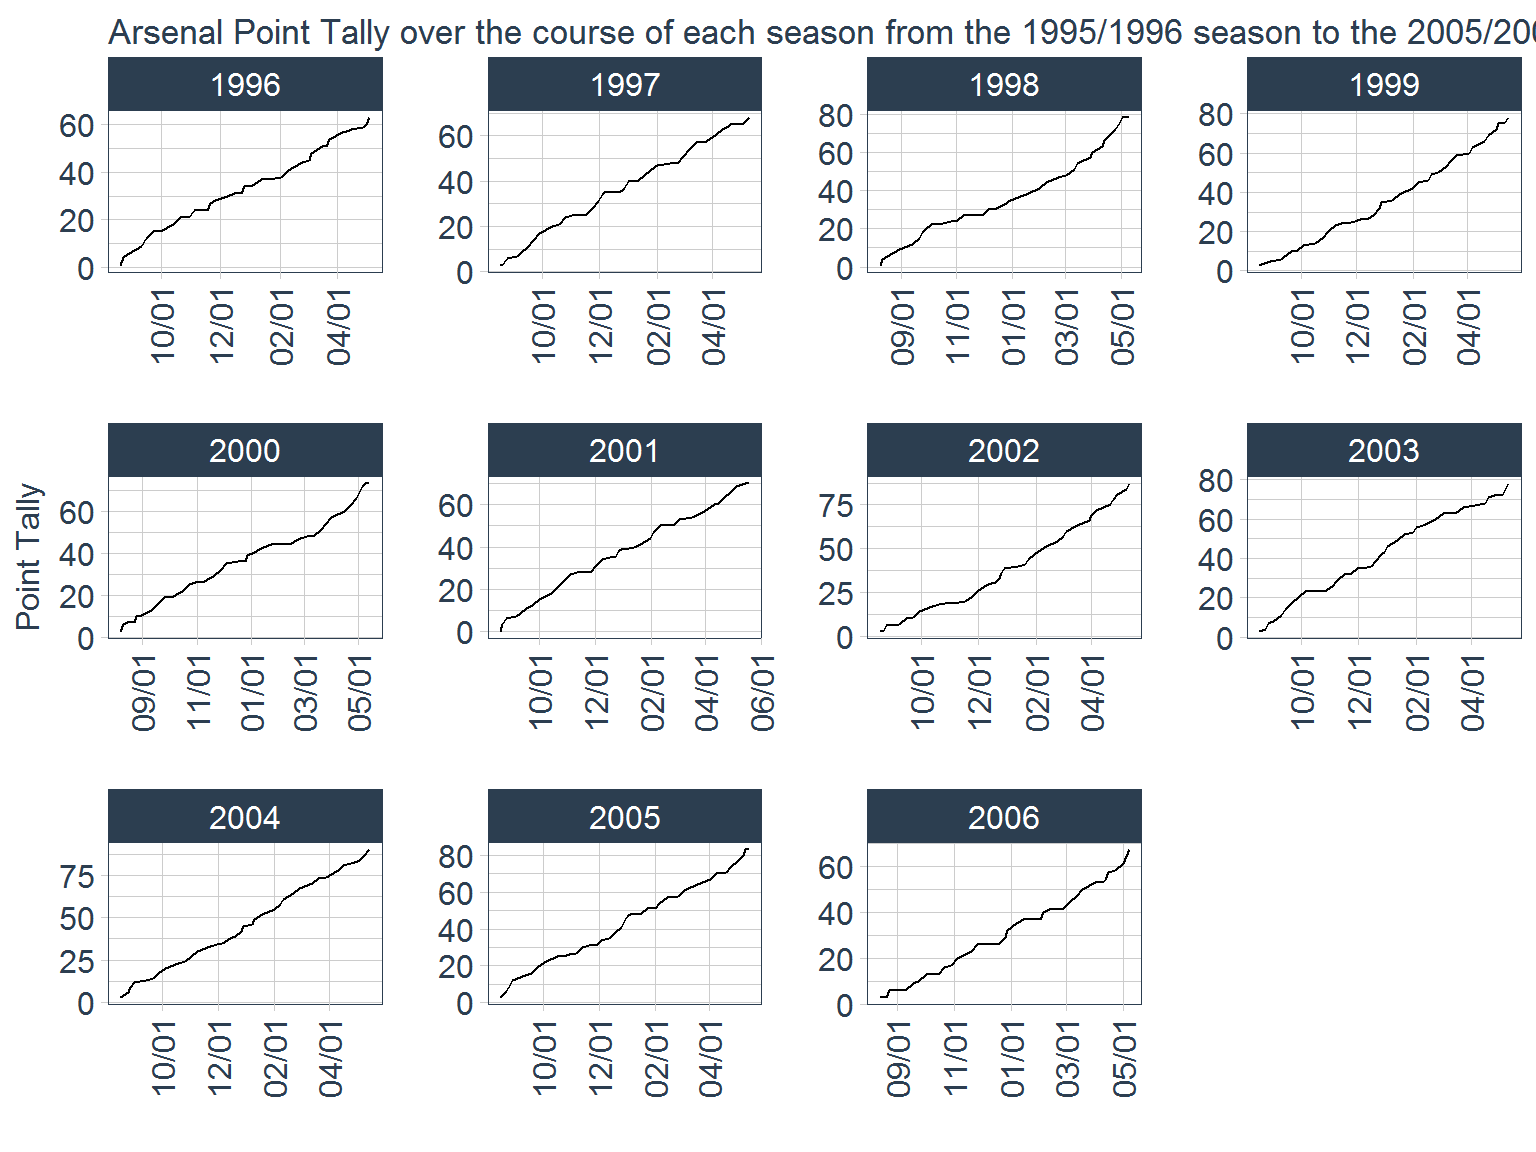
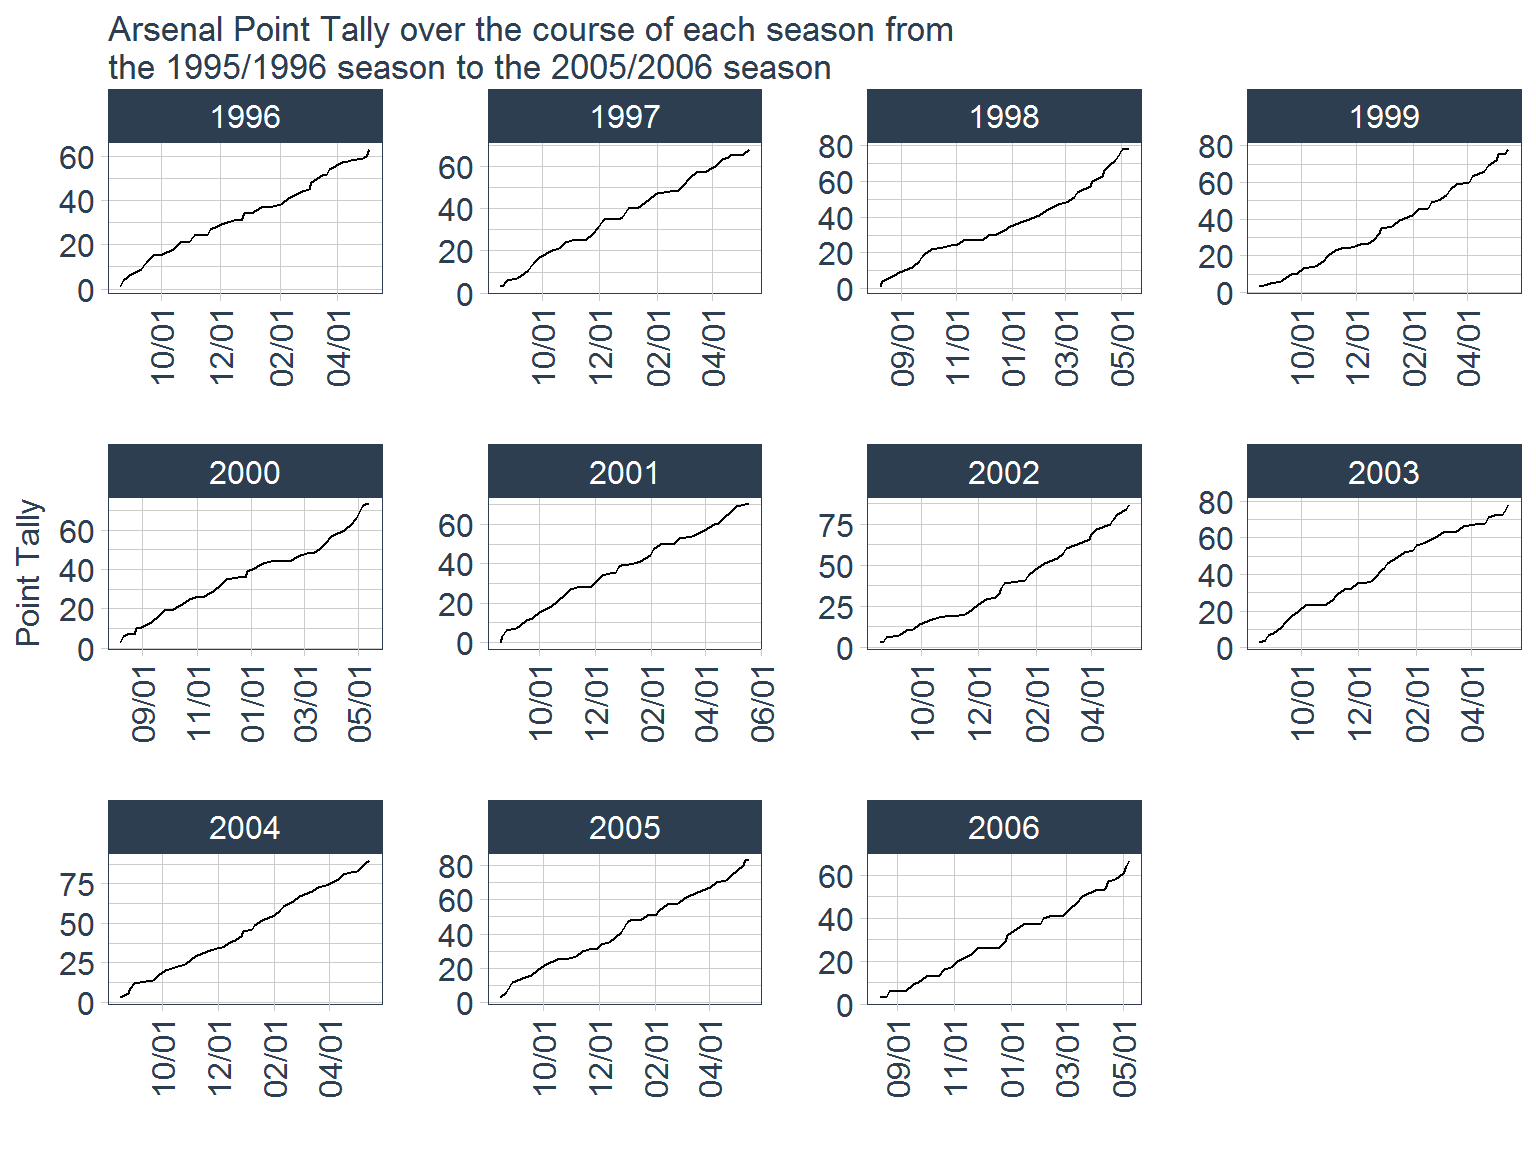
added comments section and put out.width and out.height arguments to epl blog post

diff --git a/2017/08/10/epl-opening-weekend/index.html b/2017/08/10/epl-opening-weekend/index.html
@@ -205,11 +205,12 @@ data_tidy</code></pre>
 <p>To ensure that our tidying did not create any missing values, we can use the <code>summarise_all()</code> function.</p>
 <pre class="r"><code>data_tidy %&gt;% 
   summarise_all(function(x) sum(is.na(x)))</code></pre>
-<pre><code>## # A tibble: 1 x 13
+<pre><code>## # A tibble: 1 x 15
 ##     Div season  Date  team venue   FTR  FTGF  FTGA   HTR  HTGF  HTGA
 ##   &lt;int&gt;  &lt;int&gt; &lt;int&gt; &lt;int&gt; &lt;int&gt; &lt;int&gt; &lt;int&gt; &lt;int&gt; &lt;int&gt; &lt;int&gt; &lt;int&gt;
 ## 1     0      0     0     0     0     0     0     0     0     0     0
-## # ... with 2 more variables: points_earned &lt;int&gt;, points &lt;int&gt;</code></pre>
+## # ... with 4 more variables: goal_diff &lt;int&gt;, points_earned &lt;int&gt;,
+## #   points &lt;int&gt;, goal_diff_tot &lt;int&gt;</code></pre>
 <p>Now that we know that the data is in a tidy format, we can begin exploring the data. As an Arsenal fan, I think we should start by looking at how Arsenal has done each year.</p>
 <pre class="r"><code>data_tidy %&gt;%
   filter(team == &quot;Arsenal&quot;,
@@ -226,8 +227,8 @@ data_tidy</code></pre>
         axis.title = element_text(size = 12)) +
   labs(x = &quot;&quot;, 
        y = &quot;Point Tally&quot;,
-       title = &quot;Arsenal Point Tally over the course of each season from the 1995/1996 season to the 2005/2006 season&quot;)</code></pre>
-<p><img src="/post/2017-08-09-exploring-english-premier-league-historical-match-results_files/figure-html/arsenal-points-graph-1-1.png" width="768" /></p>
+       title = &quot;Arsenal Point Tally over the course of each season from\nthe 1995/1996 season to the 2005/2006 season&quot;)</code></pre>
+<p><img src="/post/2017-08-09-exploring-english-premier-league-historical-match-results_files/figure-html/arsenal-points-graph-1-1.png" width="800px" height="600px" /></p>
 <pre class="r"><code>data_tidy %&gt;%
   filter(team == &quot;Arsenal&quot;,
          season &gt;= 2007) %&gt;%
@@ -244,8 +245,8 @@ data_tidy</code></pre>
         axis.title = element_text(size = 12))+
   labs(x = &quot;&quot;, 
        y = &quot;Point Tally&quot;,
-       title = &quot;Arsenal Point Tally over the course of each season from the 2006/2007 season to the 2016/2017 season&quot;)</code></pre>
-<p><img src="/post/2017-08-09-exploring-english-premier-league-historical-match-results_files/figure-html/arsenal-points-graph-2-1.png" width="768" /></p>
+       title = &quot;Arsenal Point Tally over the course of each season from\nthe 2006/2007 season to the 2016/2017 season&quot;)</code></pre>
+<p><img src="/post/2017-08-09-exploring-english-premier-league-historical-match-results_files/figure-html/arsenal-points-graph-2-1.png" width="800px" height="600px" /></p>
 <p>From these graphs, it looks like Arsenal follow a similar pattern every year, which is not surprising since the 2017 season was the first in Arsene Wenger’s tenure that they have not finished in the top 4. Looking at the plot for the 2017 season, it is clear that the period of the season that killed their chances of finishing in the top 4 was the stretch of games between February and March where their point increase flat lined. Let’s now take a look at team’s average finishing point total.</p>
 <pre class="r"><code>season_ending &lt;- data_tidy %&gt;%
   group_by(season, team) %&gt;%
@@ -324,7 +325,7 @@ season_ending_stats</code></pre>
        y = &quot;Final Points&quot;,
        title = &quot;Average Final Points from 1995/1996 season to 2016/2017 season&quot;,
        subtitle = &quot;Only teams with 10 or more seasons in the EPL were included&quot;)</code></pre>
-<p><img src="/post/2017-08-09-exploring-english-premier-league-historical-match-results_files/figure-html/bar-graph-season-stats-1.png" width="672" /></p>
+<p><img src="/post/2017-08-09-exploring-english-premier-league-historical-match-results_files/figure-html/bar-graph-season-stats-1.png" width="800px" height="600px" /></p>
 <p>It looks like Manchester United have the highest average final points per season. They are followed closely by Arsenal and Chelsea, who are then closely followed by Liverpool, Manchester City, and Tottenham. It is worth noting that Chelsea and Manchester City both have much higher error associated with their mean value, indicating they have much more fluctuation in the final point tallies. Another interesting take away from this figure is that the lowest average final point tally for teams that have been in the premier league for at least 10 of the previous 22 seasons is 39 points. 39 points typically guarantees a season that is safe from relegation. However, for the teams with the lower average finally point tally, such as Sunderland and West Brom, see the lower tails of their error bars treading dangerously close to relegation zone.</p>
 <p>Now, it will be interesting to see how these teams final point tallies will look on the new joyplots from the <code>ggjoy</code> package.</p>
 <pre class="r"><code>season_ending %&gt;%
@@ -344,7 +345,7 @@ season_ending_stats</code></pre>
   labs(x = &quot;Final Points&quot;,
        y = &quot;Team&quot;,
        title = &quot;Joyplot showing EPL teams&#39; individual season final point tally distribution&quot;)</code></pre>
-<p><img src="/post/2017-08-09-exploring-english-premier-league-historical-match-results_files/figure-html/final-points-joyplot-1.png" width="672" /></p>
+<p><img src="/post/2017-08-09-exploring-english-premier-league-historical-match-results_files/figure-html/final-points-joyplot-1.png" width="800px" height="600px" /></p>
 <p>The joyplot confirms the conclusions drawn from the bar chart. Manchester United and Arsenal have the highest final point distribution and both have close to a bell curve. However, Chelsea and Manchester City both have much wider distributions as they have much more ups and downs over the past 22 years.</p>
 </div>
 <div id="looking-at-opening-weekend-results" class="section level1">
@@ -369,7 +370,7 @@ season_ending_stats</code></pre>
   ungroup()
 
 opening_games</code></pre>
-<pre><code>## # A tibble: 440 x 22
+<pre><code>## # A tibble: 440 x 24
 ##      Div season       Date        team venue   FTR  FTGF  FTGA   HTR  HTGF
 ##    &lt;chr&gt;  &lt;dbl&gt;     &lt;date&gt;       &lt;chr&gt; &lt;chr&gt; &lt;chr&gt; &lt;int&gt; &lt;int&gt; &lt;chr&gt; &lt;int&gt;
 ##  1    E0   1996 1995-08-19 Aston Villa  Home     W     3     1     W     3
@@ -382,12 +383,12 @@ opening_games</code></pre>
 ##  8    E0   1996 1995-08-19    West Ham  Home     L     1     2     W     1
 ##  9    E0   1996 1995-08-19   Wimbledon  Home     W     3     2     D     2
 ## 10    E0   1996 1995-08-19  Man United  Away     L     1     3     L     0
-## # ... with 430 more rows, and 12 more variables: HTGA &lt;int&gt;,
-## #   points_earned &lt;dbl&gt;, points &lt;dbl&gt;, final_points &lt;dbl&gt;,
-## #   final_goals_for &lt;int&gt;, final_goals_against &lt;int&gt;, game &lt;dbl&gt;,
-## #   table_position &lt;dbl&gt;, final_points_last &lt;dbl&gt;,
-## #   final_goals_for_last &lt;int&gt;, final_goals_against_last &lt;int&gt;,
-## #   final_table_position_last &lt;dbl&gt;</code></pre>
+## # ... with 430 more rows, and 14 more variables: HTGA &lt;int&gt;,
+## #   goal_diff &lt;int&gt;, points_earned &lt;dbl&gt;, points &lt;dbl&gt;,
+## #   goal_diff_tot &lt;int&gt;, final_points &lt;dbl&gt;, final_goals_for &lt;int&gt;,
+## #   final_goals_against &lt;int&gt;, game &lt;dbl&gt;, table_position &lt;dbl&gt;,
+## #   final_points_last &lt;dbl&gt;, final_goals_for_last &lt;int&gt;,
+## #   final_goals_against_last &lt;int&gt;, final_table_position_last &lt;dbl&gt;</code></pre>
 <p>Now that we have a data set with all of the teams opening games results, we can look at some of the factors that could influence opening weekend results. First let’s look at how home field advantage helps teams on opening weekend</p>
 <pre class="r"><code>opening_home_adv &lt;- opening_games %&gt;%
   group_by(venue) %&gt;%
@@ -438,8 +439,8 @@ home_adv</code></pre>
         legend.title = element_blank()) +
   labs(x = &quot;Year&quot;,
        y = &quot;Percentage of Results by Year&quot;,
-       title = &quot;The Percent of Results (Win, Draw, Loss) per Season for Home Teams on Opening Weekend&quot;)</code></pre>
-<p><img src="/post/2017-08-09-exploring-english-premier-league-historical-match-results_files/figure-html/home-adv-graph-1.png" width="672" /></p>
+       title = &quot;The Percent of Results (Win, Draw, Loss) per Season\nfor Home Teams on Opening Weekend&quot;)</code></pre>
+<p><img src="/post/2017-08-09-exploring-english-premier-league-historical-match-results_files/figure-html/home-adv-graph-1.png" width="800px" height="600px" /></p>
 <p>It looks like the winning percentage for home teams fluctuates and there is no clear trend as to whether being home on opening weekend provides any benefit. Since 2014, the home teams have a higher losing percentage than winning percentage. Perhaps, in recent years, there has been some shift that has made playing away from home more desirable on opening weekend. Likely this is just random, however, and there is no overall benefit to being home or away. While there does not appear to be any overall inferences that can be made from playing home or away on opening weekend, looking at the winning percentage for home and away opening games for the individual teams may provide some interesting results.</p>
 <pre class="r"><code>home_adv_team &lt;- opening_games %&gt;%
   group_by(team) %&gt;%
@@ -486,7 +487,7 @@ home_adv_team</code></pre>
        y = &quot;Winning Percentage&quot;,
        title = &quot;Winning Percentage for Teams on Opening Weekend both Home and Away&quot;,
        subtitle = &quot;Only teams with more than 10 seasons in the premier league were included&quot;)</code></pre>
-<p><img src="/post/2017-08-09-exploring-english-premier-league-historical-match-results_files/figure-html/unnamed-chunk-2-1.png" width="672" /></p>
+<p><img src="/post/2017-08-09-exploring-english-premier-league-historical-match-results_files/figure-html/unnamed-chunk-2-1.png" width="800px" height="600px" /></p>
 <p>This figure seems to provide much more insight into how home field advantage can impact teams. For example, Arsenal have a 60% winning percentage at home on opening weekend, and their opponent this weekend, Leicester City, have not won a opening game away from home in the premier league since 1996. This is a very positive sign for the gunners as their match is being played at the Emirates Stadium (Arsenal’s Home Field). Chelsea have a winning percentage in the high 70s when they play their opening game at home, as they do this year. That fact seems promising (unfortunately) for the blues, as their opening match this year is at home. Other noticeable impacts of home field advantage are New Castle United and Sunderland. New Castle have a home winning percentage of 50% on opening weekend, but only have a 10% winning percentage for away games on opening weekend. Fortunately for them, they are also playing at home this year. Unfortunately for them, they are matched up with West Ham who don’t have much issue playing on the road opening weekend, with a 40% winning percentage when away from home. Sunderland, similarly has an average home winning percentage of just under 40% for opening weekend, but have a winning percentage of only just north of 10% when playing away from home. However, Sunderland were relegated last season, so maybe they will have better luck in the Championship. Several teams seem not to be impacted by whether or not they play at home on opening weekend. Manchester United and Manchester City both only see a slight dip in winning percentage when away from home, and Blackburn has a 40% winning percentage when both home and away on opening weekend.</p>
 <p>Let’s take a look at each team’s overall winning percentage on opening weekend.</p>
 <pre class="r"><code>opening_games %&gt;%
@@ -514,7 +515,7 @@ home_adv_team</code></pre>
        y = &quot;Winning Percentage&quot;,
        title = &quot;Winning Percentage for Teams on Opening Weekend&quot;,
        subtitle = &quot;Only teams with more than 10 seasons in the premier league were included&quot;)</code></pre>
-<p><img src="/post/2017-08-09-exploring-english-premier-league-historical-match-results_files/figure-html/opening-win-perc-1.png" width="672" /></p>
+<p><img src="/post/2017-08-09-exploring-english-premier-league-historical-match-results_files/figure-html/opening-win-perc-1.png" width="800px" height="600px" /></p>
 <p>It looks like the results follow a similar pattern to the previous figure, as expected. Chelsea and Manchester United have the best winning percentages (&gt;60%) on opening weekend, with Arsenal, Liverpool, Manchester City, and West Ham all close behind in the 50% range.</p>
 </div>
 <div id="conclusions" class="section level1">
@@ -527,6 +528,28 @@ home_adv_team</code></pre>
   </article>
 
   
+<section id="comments">
+  <div id="disqus_thread"></div>
+  <script>
+  var disqus_config = function () {
+  
+  };
+  (function() {
+    var inIFrame = function() {
+      var iframe = true;
+      try { iframe = window.self !== window.top; } catch (e) {}
+      return iframe;
+    };
+    if (inIFrame()) return;
+    var d = document, s = d.createElement('script');
+    s.src = '//goonR-blog.disqus.com/embed.js'; s.async = true;
+    s.setAttribute('data-timestamp', +new Date());
+    (d.head || d.body).appendChild(s);
+  })();
+  </script>
+  <noscript>Please enable JavaScript to view the <a href="https://disqus.com/?ref_noscript">comments powered by Disqus.</a></noscript>
+</section>
+
 
 
 </main>
@@ -558,6 +581,9 @@ home_adv_team</code></pre>
 
 
     
+<script src="/js/math-code.js"></script>
+<script async src="//cdn.bootcss.com/mathjax/2.7.1/MathJax.js?config=TeX-MML-AM_CHTML"></script>
+
 
     
   </body>

diff --git a/about/index.html b/about/index.html
@@ -72,6 +72,28 @@
   </article>
 
   
+<section id="comments">
+  <div id="disqus_thread"></div>
+  <script>
+  var disqus_config = function () {
+  
+  };
+  (function() {
+    var inIFrame = function() {
+      var iframe = true;
+      try { iframe = window.self !== window.top; } catch (e) {}
+      return iframe;
+    };
+    if (inIFrame()) return;
+    var d = document, s = d.createElement('script');
+    s.src = '//goonR-blog.disqus.com/embed.js'; s.async = true;
+    s.setAttribute('data-timestamp', +new Date());
+    (d.head || d.body).appendChild(s);
+  })();
+  </script>
+  <noscript>Please enable JavaScript to view the <a href="https://disqus.com/?ref_noscript">comments powered by Disqus.</a></noscript>
+</section>
+
 
 
 </main>
